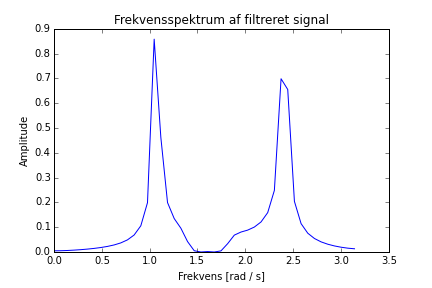
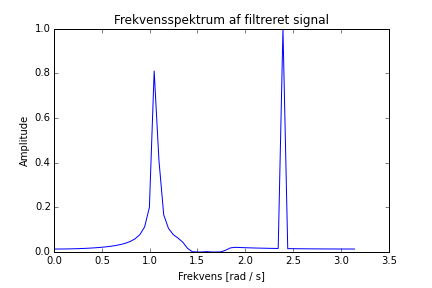
Miniprojekt

diff --git a/Diskret-tids-systemer/Miniprojekt/Rapport/sections/mainmatter/ch4_vur.tex b/Diskret-tids-systemer/Miniprojekt/Rapport/sections/mainmatter/ch4_vur.tex
@@ -1,22 +1,23 @@
 \section{Vurdering}
-På bagrund af graferne i sektion \ref{ch4_design} kan det vurderes, at det designede FIR-filter formår at filtrere frekvensen $\omega_2=\frac{\pi}{2}$ fra det samplede signal $s[n]$ som ønsket ved anvendelse af orden større end $30$. \\
-Figur \ref{fig:filter_rekt} illustrerer, at de opstillede specifikationer til en vis grad overholdes ved en orden på henholdsvis 30 og 100 og anvendelse af det rektangulære vindue. Det ses tydeligt, at transitionsbåndet bliver smallere og at stopbåndet flader ud jo højere orden der anvendes. De ripples, der forekommer i pasbåndet formindskes også, når ordenen øges. Dog forsvinder de ikke, da det er det rektangulære vindue, der anvendes. Som nævnt kan dette optimeres ved at ændre på vinduet. Herunder optimeres filteret.
+På bagrund af graferne i sektion \ref{ch4_design} kan det vurderes, at det designede FIR-filter formår at filtrere frekvensen $\omega_2=\frac{\pi}{2}$ fra det samplede signal $s[n]$ som ønsket ved anvendelse af orden større end $62$. \\
+Figur \ref{fig:filter_rekt} illustrerer dog, at de opstillede specifikationer kun til en vis grad overholdes ved en orden på henholdsvis 62 og 126 og anvendelse af det rektangulære vindue. Det ses tydeligt, at transitionsbåndet bliver smallere og at stopbåndet flader ud jo højere orden der anvendes. De ripples, der forekommer i pasbåndet formindskes også, når ordenen øges. Dog forsvinder de ikke, da det er det rektangulære vindue, der anvendes, og amplituderesponsen er ikke 0 i stopbåndet, hvormed signalet ikke filteres optimalt. Herunder optimeres filteret ved at anvende Hamming-vinduet.
 
 \section{Optimering}
-Ud fra ovenstående forsøges der med højere filterorden. Forsøg har vist, at der opnås en god filtrering ved hjælp af Hamming-vinduet med $M=92$, hvormed frekvensen $\omega_2 = \pi/2$ filtreres fra uden at påvirke de øvrige frekvenser i udstrakt grad. Dette resultat ses på figur \ref{fig:resultat_freq}, der viser frekvensspektret, hvor frekvensen $\omega_2$ ikke fremgår \todo{Der er lidt rod med enhederne mellem figurerne i kapitel 3 og 4... \textregistered}, og figur \ref{fig:resultat_signal}, der viser det ideelle filtrerede signal plottet oveni det filtrerede signal. Af sidstnævnte fremgår det, at de to signaler ligger oveni hinanden med enkelte afvigelser.
+Forsøg har vist, at der opnås en god filtrering ved hjælp af Hamming-vinduet med $M=126$, hvormed frekvensen $\omega_2 = \pi/2$ i udstrakt grad filtreres fra uden at påvirke de øvrige frekvenser. Dette resultat ses på figur \ref{fig:resultat}, der henholdsvis viser frekvensspektret, hvor frekvensen $\omega_2 \approx 1.57$ ikke fremgår, og en sammenligning mellem det ideelle filtrerede signal og det filtrerede signal. Af sidstnævnte fremgår det, at de to signaler ligger oveni hinanden med enkelte afvigelser.
 \begin{figure}[H]
 \begin{minipage}{0.49\textwidth}
 \centering
 \includegraphics[width=\textwidth]{figures/Filter/freq_filt_signal.png}
-\caption{Frekvensspektrum for det filtrerede signal under anvendelse af filter af orden $M=92$.}
-\label{fig:resultat_freq}
 \end{minipage}
 \begin{minipage}{0.49\textwidth}
 \centering
 \includegraphics[width=\textwidth]{figures/Filter/signal_compare.png}
-\caption{Det ideelle filtrerede signal (blå) og det filtrerede signal (orange).}
-\label{fig:resultat_signal}
 \end{minipage}
+\caption{Frekvensspektrum for det filtrerede signal under anvendelse af filter af orden $M=126$ (venstre) og sammenligning af det filtrerede signal og det ønskede signal (højre).}
+\label{fig:resultat}
 \end{figure}
 
-Amplituderesponsen for Hammingvinduet brugt til filteret ses desuden på figur \ref{fig:amplituderespons} i bilag \ref{app2}.
+Amplituderesponser for Hamming-vinduet med $M = 62$ og $M = 126$ ses desuden på figur \ref{fig:amplituderespons_Hamming} i bilag \ref{app2}. Af disse figurer fremgår det, at et filter med Hamming-vinduet med $M = 126$ er tæt på den ideelle amplituderespons.
+
+\section{Samlet konklusion}
+I dette miniprojekt er et signal indeholdende 3 sinus-komponenter blevet genereret og samplet, hvorefter det er blevet analyseret for dets frekvensmæssige indhold ved hjælp af en implementering af DFT'en i form af en FFT-algoritme. Afslutningsvis er signalet blevet filtreret ved hjælp af et båndstopfilter med endelig impulsrespons, som i vid udstrækning har formået at eliminere frekvensen på $\pi/2$ uden at påvirke de øvrige de øvrige frekvenser som ønsket. Resultatet af denne filtrering ses på figur \ref{fig:resultat}.

diff --git a/Diskret-tids-systemer/Miniprojekt/Rapport/sections/mainmatter/ch4_design.tex b/Diskret-tids-systemer/Miniprojekt/Rapport/sections/mainmatter/ch4_design.tex
@@ -35,22 +35,22 @@ def ha(n,M,a): # Hann-vindue, hvis a = 0.5. Hamming-vindue, hvis a = 0.54.
     return w
 \end{lstlisting}
 
-Grafen for et Hamming-vindue af orden 50 er vist på figur \ref{fig:Hamming}.
+Grafen for et Hamming-vindue af orden 62 er vist på figur \ref{fig:Hamming}.
 \begin{figure}[H]
     \centering
-    \includegraphics[width = 0.6\textwidth]{figures/Filter/Hamming_50.PNG}
+    \includegraphics[width = 0.6\textwidth]{figures/Filter/Hamming_62.PNG}
     \caption{Eksempel på Hamming-vinduet.}
     \label{fig:Hamming}
 \end{figure}
 
-Efter implementeringen af vinduerne kaldes funktionerne for den ideelle impulsrespons og det ønskede vindue, som herefter ganges sammen. Dette resultat Fourier-transformeres ved hjælp af den implementerede FFT beskrevet under frekvensanalysen. Hermed opnås frekvensresponsen $H(\text{e}^{j\omega})$ og amplituderesponsen $|H(\text{e}^{j\omega})|$, hvoraf sidstnævnte (ideelt set) er 0 mellem $\omega_{c_1}$ og $\omega_{c_2}$ og 1 ellers. Dette afhænger dog især af valget af vinduet og filterordenen $M$. Figur \ref{fig:filter_rekt} viser eksempler på anvendelsen af det rektangulære vindue for $M = 50$ og $M = 100$.
+Efter implementeringen af vinduerne kaldes funktionerne for den ideelle impulsrespons og det ønskede vindue, som herefter ganges sammen. Dette resultat Fourier-transformeres ved hjælp af den implementerede FFT beskrevet under frekvensanalysen. Hermed opnås frekvensresponsen $H(\text{e}^{j\omega})$ og amplituderesponsen $|H(\text{e}^{j\omega})|$, hvoraf sidstnævnte (ideelt set) er 0 mellem $\omega_{c_1}$ og $\omega_{c_2}$ og 1 ellers. Dette afhænger dog især af valget af vinduet og filterordenen $M$. Figur \ref{fig:filter_rekt} viser eksempler på anvendelsen af det rektangulære vindue for $M = 5$ og $M = 100$.
 
 \begin{figure}[H]
 \begin{minipage}{0.49\textwidth}
-\includegraphics[width=0.9\textwidth]{figures/Filter/Filter_rekt_50.PNG}
+\includegraphics[width=0.9\textwidth]{figures/Filter/Filter_rekt_62.PNG}
 \end{minipage}
 \begin{minipage}{0.49\textwidth}
-\includegraphics[width=0.9\textwidth]{figures/Filter/Filter_rekt_100.PNG}
+\includegraphics[width=0.9\textwidth]{figures/Filter/Filter_rekt_126.PNG}
 \end{minipage}
 \caption{Eksempler på båndstopfilteret under anvendelse af det rektangulære vindue og med forskellige filterordener $M$.}
 \label{fig:filter_rekt}

diff --git a/Diskret-tids-systemer/Miniprojekt/Rapport/sections/mainmatter/app1.tex b/Diskret-tids-systemer/Miniprojekt/Rapport/sections/mainmatter/app1.tex
@@ -39,9 +39,16 @@ h_d[0]=& \frac{1}{\pi} \left( \cos\left( \omega_{c_1} \left(n-\frac{M}{2}\right)
 \end{align*}
 
 \section{Amplituderespons for filteret} \label{app2}
+
 \begin{figure}[H]
+\begin{minipage}{0.49\textwidth}
 \centering
-\includegraphics[width=0.7\textwidth]{figures/Filter/Filter_Hamming_126.png}
-\caption{Amplituderespons for filteret af orden $M=126$ ved anvendelse af Hamming-vinduet.}
-\label{fig:amplituderespons}
+\includegraphics[width=\textwidth]{figures/Filter/Filter_Hamming_62.png}
+\end{minipage}
+\begin{minipage}{0.49\textwidth}
+\centering
+\includegraphics[width=\textwidth]{figures/Filter/Filter_Hamming_126.png}
+\end{minipage}
+\caption{Amplituderesponser for filteret af orden $M = 62$ og $M=126$ ved anvendelse af Hamming-vinduet.}
+\label{fig:amplituderespons_Hamming}
 \end{figure}

diff --git a/Diskret-tids-systemer/Miniprojekt/Rapport/sections/mainmatter/chapter1.tex b/Diskret-tids-systemer/Miniprojekt/Rapport/sections/mainmatter/chapter1.tex
@@ -9,4 +9,5 @@ Frekvensanalyse af det samplede signal.
 \item \textbf{Signal-modifikation}\\
 Filtrering af det samplede signal.
 \end{itemize}
-Hvert punkt har et dedikeret kapitel med redegørelse for overvejelser og beslutninger samt dokumentation af implementeringen i Python.
+
+Hvert punkt har et dedikeret kapitel med redegørelse for overvejelser og beslutninger samt dokumentation af implementeringen i Python. Det vedlagte Python-script udfører databehandlingen og printer figurerne anvendt i denne rapport. Derudover gemmes figurerne i en separat mappe, så læseren kan zoome ind og kigge nærmere på dem.

diff --git a/Diskret-tids-systemer/Miniprojekt/Rapport/sections/mainmatter/chapter3.tex b/Diskret-tids-systemer/Miniprojekt/Rapport/sections/mainmatter/chapter3.tex
@@ -52,7 +52,7 @@ På figur \ref{fig:1} ses signalet i tids- og frekvensdomænet samplet med $f_s=
 \label{fig:1}
 \end{figure}
 
-På figur \ref{fig:1} ses signalet ligeledes i tids- og frekvensdomænet samplet med $f_s=32$ Hz og med $N=2^8, 2^{12}, 2^{18}$ samples.
+På figur \ref{fig:2} ses signalet ligeledes i tids- og frekvensdomænet samplet med $f_s=32$ Hz og med $N=2^8, 2^{12}, 2^{18}$ samples.
 
 \begin{figure}[H]
 \begin{minipage}{0.49\textwidth}
